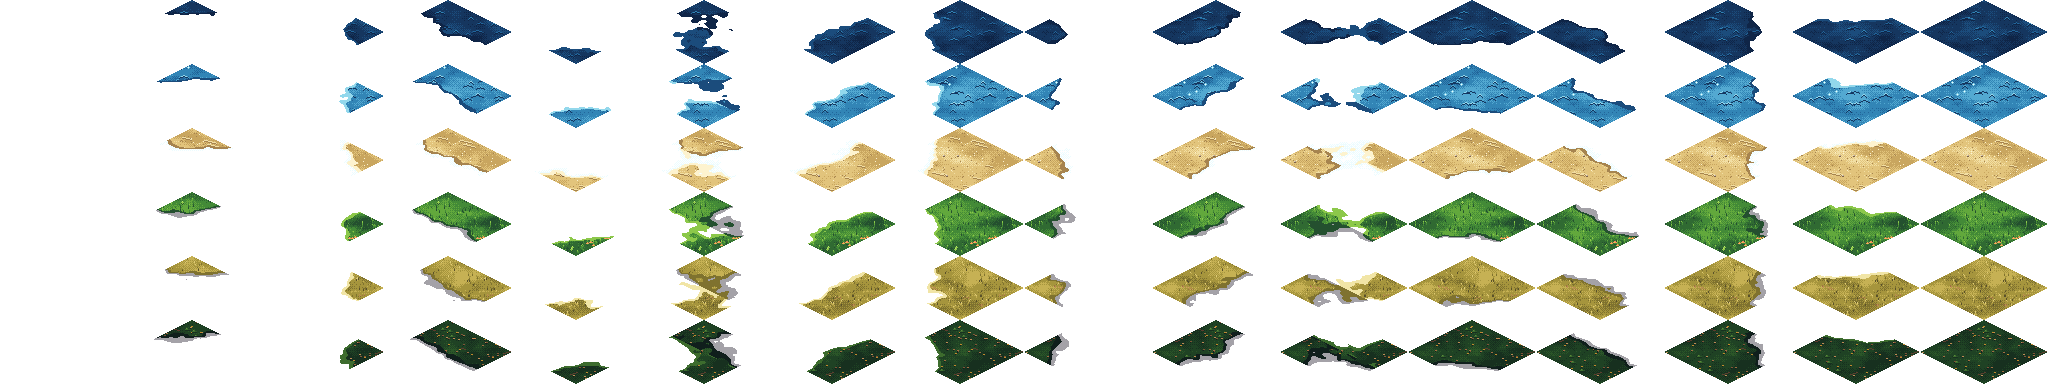
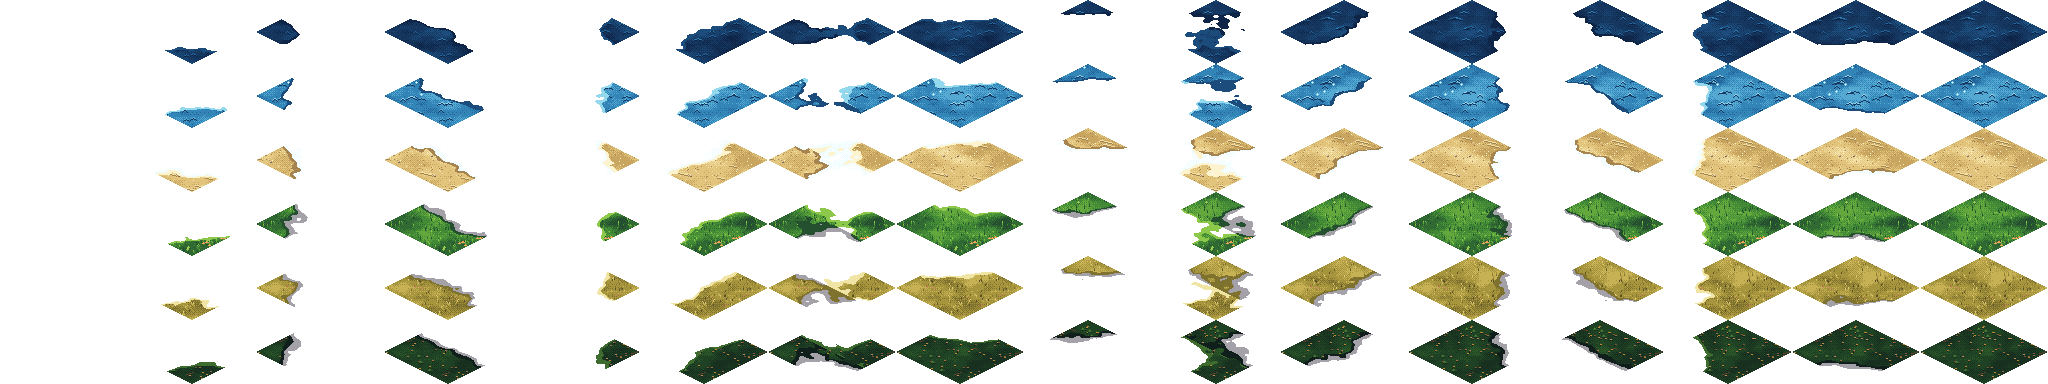
refactor(client): NW<<3|NE<<2|SW<<1|SE corner masks, tile size in one place
The ground atlas will come from PixelLab, whose transition tiles use the
mask NW << 3 | NE << 2 | SW << 1 | SE. DualGrid now uses that order
(corner_cells() returns NW, NE, SW, SE) and art/gen_art.gd draws its
provisional tiles to match.

Tile size, atlas path, atlas columns and camera zoom are constants of
client/iso_layer.gd only; gen_art.gd and the view read them. Checked by
generating the art at 64x32: only test_tiles_are_high_resolution, which
pins the current size on purpose, fails.

tests/test_art.gd and tests/test_dual_grid.gd changed for the new bit order.

diff --git a/docs/art-guide.md b/docs/art-guide.md
@@ -3,7 +3,7 @@
 - **Style:** isometric pixel art in full color, nearest-neighbour filtering, no anti-aliasing. Shade in steps, never with smooth gradients; ordered dithering between steps is fine.
 - **Colors:** each material has a ramp, dark to light, at the top of `art/gen_art.gd`. Ramps shift hue: shadows lean cool, highlights warm. Reuse a ramp, or add one for a new material.
 - **Light:** comes from the top left. Characters get a 1 px dark outline and a translucent ground shadow.
-- **Tiles:** 128×64 px diamonds (2:1). `assets/tiles.png` has one row per ground (the `atlas` field of `data/tiles/<id>.json`) and 16 columns, one per corner mask of the dual grid (`client/dual_grid.gd`: bit 1 top corner, 2 right, 4 bottom, 8 left; column 0 is empty, column 15 is the full tile). A tile must join seamlessly with copies of itself: make textures periodic over the tile lattice (see `_lattice` and `_wrap` in `art/gen_art.gd`). Masked tiles cut the full one along a ragged edge that only depends on the two corners of each tile edge, so neighbours always meet.
+- **Tiles:** 128×64 px diamonds (2:1). `assets/tiles.png` has one row per ground (the `atlas` field of `data/tiles/<id>.json`) and 16 columns, one per corner mask of the dual grid (`client/dual_grid.gd`: `NW << 3 | NE << 2 | SW << 1 | SE`, where NW is the top corner on screen, NE the right, SW the left and SE the bottom; column 0 is empty, column 15 is the full tile). Tile size and atlas layout are set in one place, `client/iso_layer.gd`. A tile must join seamlessly with copies of itself: make textures periodic over the tile lattice (see `_lattice` and `_wrap` in `art/gen_art.gd`). Masked tiles cut the full one along a ragged edge that only depends on the two corners of each tile edge, so neighbours always meet.
 - **Characters:** 64×96 px frames, feet at the bottom, centered. `assets/player.png` has 4 columns (facing down, left, right, up) and 5 rows: standing, then a walk cycle of 4 frames over two steps (`WalkAnim.WALK_FRAMES`; poses in `POSES` in `art/gen_art.gd`).
 - **Scale:** the camera shows art at 1 texel per screen pixel (zoom 1). Draw details at this size; do not upscale smaller art.
 - **Format:** PNG, RGBA, no metadata you would not want public.
